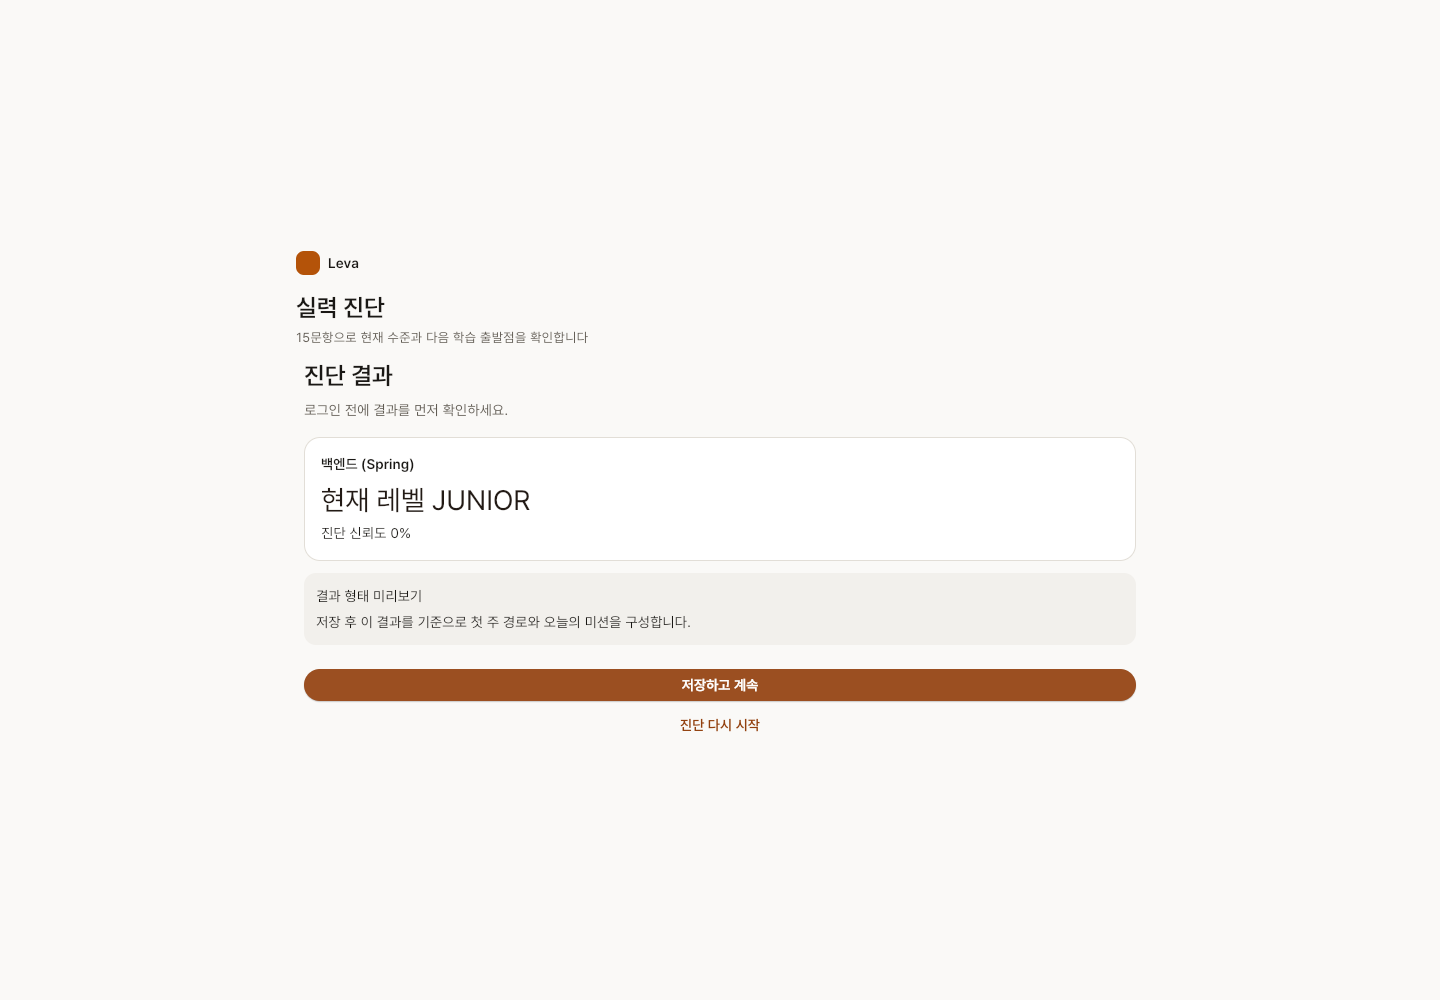
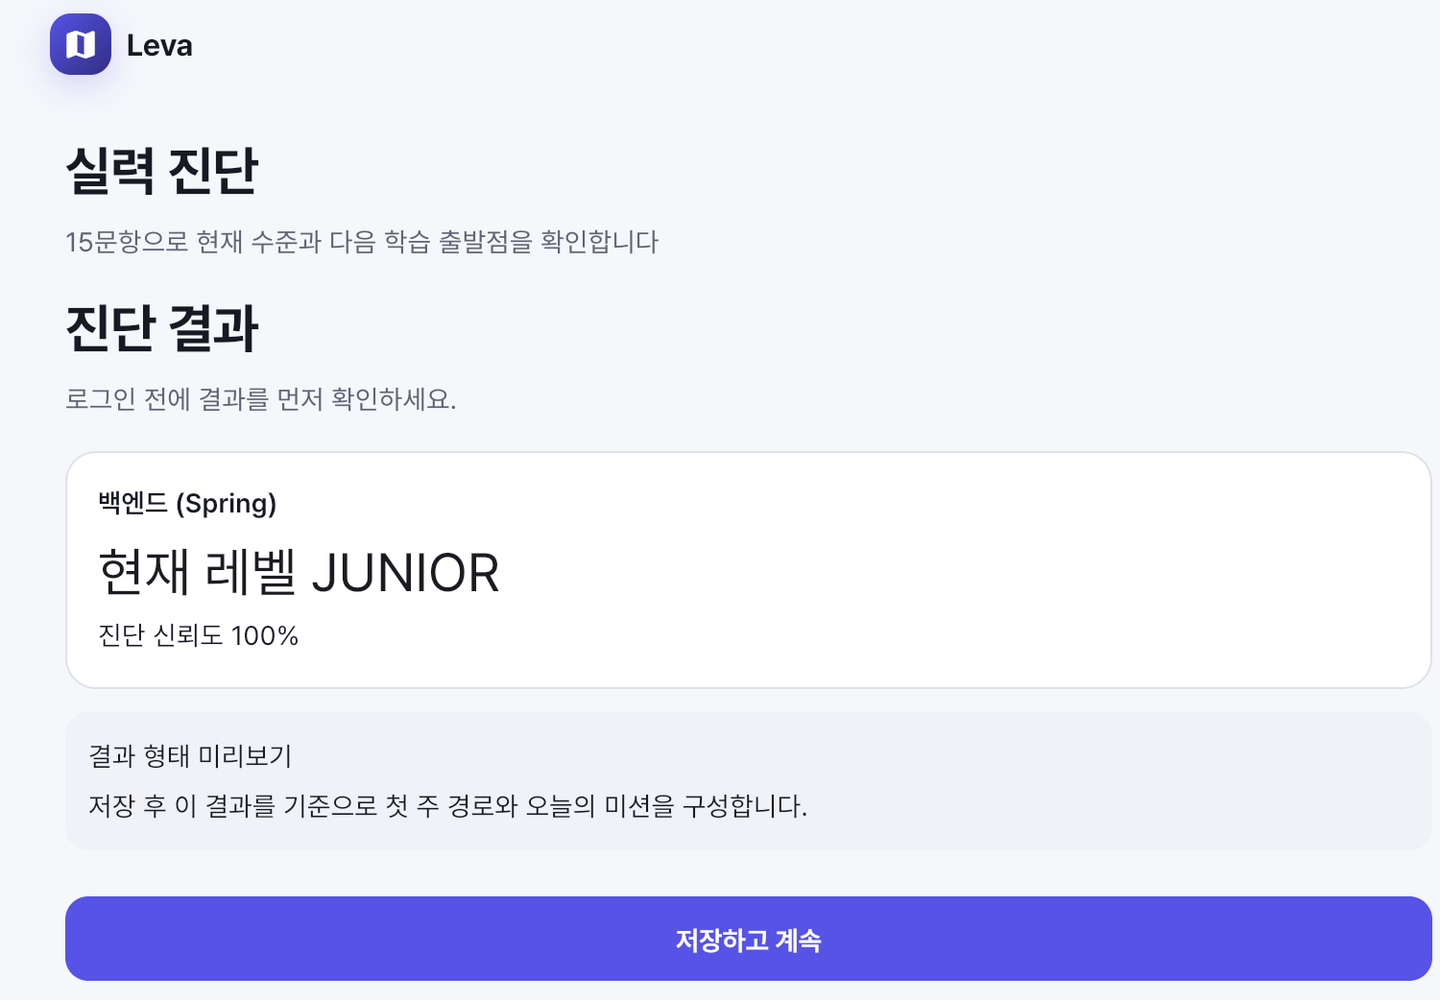
fix(home): replace the 0% hero capture with a real guest diagnostic result
The hero and filmstrip capture from 2026-09-05 showed "진단 신뢰도 0%" (every
question skipped) in the pre-redesign theme. Capture the production guest
diagnostic again with real answers (tools/capture-live.mjs: 15 questions
answered, confidence 100%, JUNIOR) on the 2026-09-16 redesign, crop to the
result card, and record role/route/viewport/time/app SHA/hashes in
evidence/live-captures.v1.json with a contract test. Mentor and path
captures stay marked pending_recapture (login session required).

diff --git a/tests/live-captures-evidence.test.js b/tests/live-captures-evidence.test.js
@@ -1,0 +1,50 @@
+import { createHash } from 'node:crypto';
+import { existsSync, readFileSync } from 'node:fs';
+import { fileURLToPath } from 'node:url';
+import { describe, expect, it } from 'vitest';
+
+const root = (path) => fileURLToPath(new URL(`../${path}`, import.meta.url));
+const sha256 = (path) => createHash('sha256').update(readFileSync(root(path))).digest('hex');
+const manifest = JSON.parse(readFileSync(root('evidence/live-captures.v1.json'), 'utf8'));
+
+// CLAUDE.md 「실제 화면과 미디어 증거」: 실제 화면은 배포 후보 앱에서 캡처하고 role, route,
+// viewport, capture time, app source/deployment SHA, original/derived hash 를 manifest 에 기록한다.
+describe('실제 화면 캡처 manifest', () => {
+  it('schema 와 세 캡처 슬롯이 있다', () => {
+    expect(manifest.schemaVersion).toBe(1);
+    expect(manifest.captures.map((c) => c.asset).sort()).toEqual([
+      'assets/live-backend-path.png',
+      'assets/live-diagnostic-result.png',
+      'assets/live-mentor.png',
+    ]);
+  });
+
+  it('현재 테마 캡처는 원본·파생 해시가 파일과 일치하고 출처가 완전하다', () => {
+    for (const capture of manifest.captures.filter((c) => c.status === 'current')) {
+      expect(capture.role).toMatch(/^(guest|member)$/);
+      expect(capture.route).toMatch(/^\/[a-z-]*/);
+      expect(capture.viewport).toMatchObject({ width: expect.any(Number), height: expect.any(Number), deviceScaleFactor: expect.any(Number) });
+      expect(capture.capturedAt).toMatch(/^\d{4}-\d{2}-\d{2}T/);
+      expect(capture.app.sourceSha).toMatch(/^[0-9a-f]{40}$/);
+      expect(capture.app.imageDigest).toMatch(/^sha256:[0-9a-f]{64}$/);
+      expect(capture.derivation).toEqual(expect.arrayContaining(['crop', 'resize']));
+      expect(existsSync(root(capture.original.path))).toBe(true);
+      expect(sha256(capture.original.path)).toBe(capture.original.sha256);
+      expect(sha256(capture.asset)).toBe(capture.derived.sha256);
+    }
+  });
+
+  it('개편 전 캡처는 재캡처 대기로 표시되고 파일 해시가 고정된다', () => {
+    for (const capture of manifest.captures.filter((c) => c.status === 'pending_recapture')) {
+      expect(capture.capturedAt).toBe('2026-09-05');
+      expect(capture.note).toContain('2026-09-16');
+      expect(sha256(capture.asset)).toBe(capture.derived.sha256);
+    }
+  });
+
+  it('히어로 캡처는 진단 신뢰도 0% 화면이 아니다', () => {
+    const diagnostic = manifest.captures.find((c) => c.asset === 'assets/live-diagnostic-result.png');
+    expect(diagnostic.status).toBe('current');
+    expect(diagnostic.observed.confidence).not.toBe('0%');
+  });
+});
